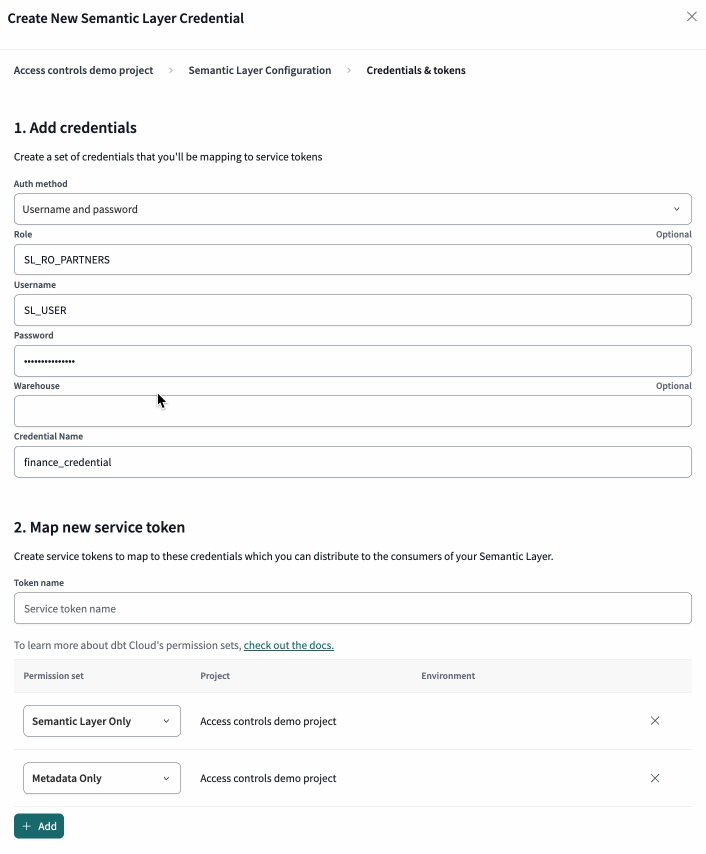
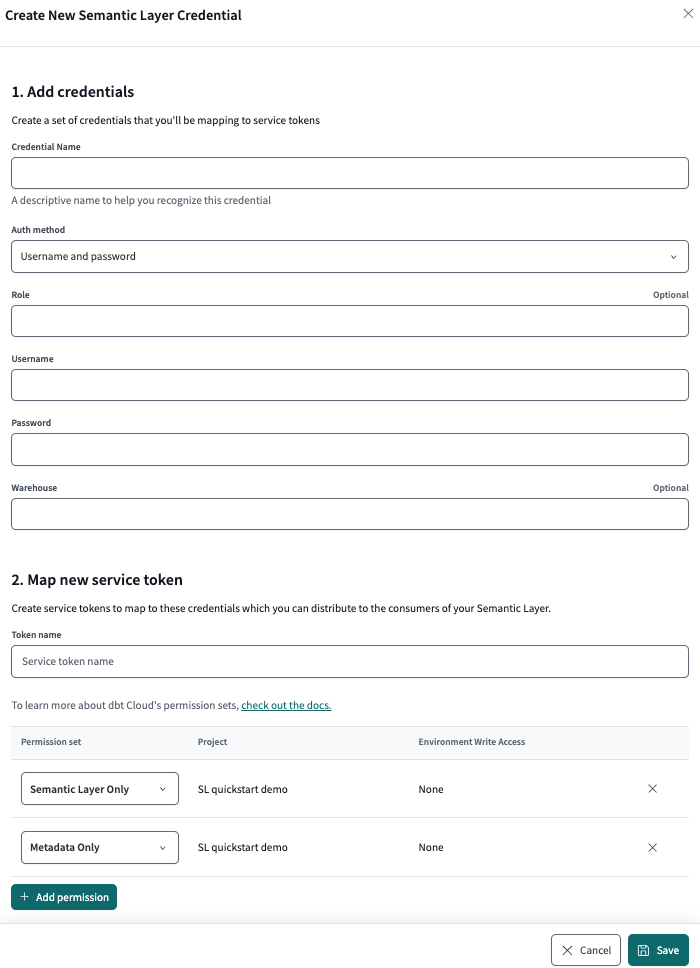
update sl credentials flow

diff --git a/website/snippets/_new-sl-setup.md b/website/snippets/_new-sl-setup.md
@@ -13,32 +13,41 @@ Select the environment where you want to enable the Semantic Layer:
 2. On the **Settings** left sidebar, select the specific project you want to enable the Semantic Layer for.
 3. In the **Project details** page, navigate to the **Semantic Layer** section. Select **Configure Semantic Layer**.
 
-<Lightbox src="/img/docs/dbt-cloud/semantic-layer/new-sl-configure.jpg" width="60%" title="Semantic Layer section in the 'Project Details' page"/>
+<Lightbox src="/img/docs/dbt-cloud/semantic-layer/new-sl-configure.jpg" width="70%" title="Semantic Layer section in the 'Project Details' page"/>
 
 4. In the **Set Up Semantic Layer Configuration** page, select the deployment environment you want for the Semantic Layer and click **Save**. This provides administrators with the flexibility to choose the environment where the Semantic Layer will be enabled.
 
-:::tip dbt Cloud Enterprise can skip to [Add more credentials](#4-add-more-credentials)
-dbt Cloud Enterprise plans can add multiple credentials and have a different set up. Skip to [Add more credentials](#4-add-more-credentials) for more configuration details.
-:::
+<Lightbox src="/img/docs/dbt-cloud/semantic-layer/sl-select-env.jpg" width="75%" title="Select the deployment environment to run your Semantic Layer against."/>
 
 ### 2. Add a credential and create service tokens
 
-The dbt Semantic Layer uses [service tokens](/docs/dbt-cloud-apis/service-tokens) for authentication which are tied to an underlying data platform credential that you configure. The credential configured is used to execute queries that the Semantic Layer issues against your data platform. This credential controls the physical access to underlying data accessed by the Semantic Layer, and all access policies set in the data platform for this credential will be respected.
+The dbt Semantic Layer uses [service tokens](/docs/dbt-cloud-apis/service-tokens) for authentication which are tied to an underlying data platform credential that you configure. The credential configured is used to execute queries that the Semantic Layer issues against your data platform. 
 
-dbt Cloud Enterprise plans can add multiple credentials and map those to service tokens. Refer to [Add more credentials](#4-add-more-credentials) for more information.
+This credential controls the physical access to underlying data accessed by the Semantic Layer, and all access policies set in the data platform for this credential will be respected.
 
-1. In the **Set Up Semantic Layer Configuration** page, enter the credentials specific to your data platform that you want the Semantic Layer to use.
+| Feature | Team plan | Enterprise plan |
+| --- | :---: | :---: |
+| Service tokens | Can create multiple service tokens linked to one credential. | Can create multiple service tokens linked to multiple credentials. |
+| Credentials per project | One credential per project. | Can [add multiple](#4-add-more-credentials) credentials per project. |
+| Link multiple service tokens to a single credential | ✅ | ✅ |
+
+*If you're on a Team plan and need to add more credentials, consider upgrading to our [Enterprise plan](https://www.getdbt.com/contact). Enterprise users can refer to [Add more credentials](#4-add-more-credentials) for detailed steps on adding multiple credentials.*
+
+1. After selecting the deployment environment, you should see the **Credentials & service tokens** page. 
+2. Click the **Add Semantic Layer credential** button. 
+3. In the **1. Add credentials** section, enter the credentials specific to your data platform that you want the Semantic Layer to use.
    - Use credentials with minimal privileges. The Semantic Layer requires read access to the schema(s) containing the dbt models used in your semantic models for downstream applications
    - Note, environment variables such as  `{{env_var('DBT_WAREHOUSE') }}`, aren't supported in the dbt Semantic Layer yet. You must use the actual credentials.
-<Lightbox src="/img/docs/dbt-cloud/semantic-layer/sl-configure-sl.jpg" width="45%" title="Enter the credentials specific to your data platform that you want the Semantic Layer to use and select the deployment environment."/>
 
-1. Create a **Service Token** after you add the credential.
-   * Enterprise plans: Name and generate a service token on the credential page directly.
-   * Team plans: You can return to the **Project Details** page and click the **Generate a Service Token** button. 
-2. Name the token and save it. Once the token is generated, you won't be able to view this token again so make sure to record it somewhere safe.
+<Lightbox src="/img/docs/dbt-cloud/semantic-layer/sl-add-credential.jpg" width="55%" title="Add credentials and map them to a service token. " />
+
+4. After adding credentials, scroll to **2. Map new service token**.
+5. Name the token and ensure the permission set is 'Semantic Layer Only' and 'Metadata Only'. 
+6. Click **Save**. Once the token is generated, you won't be able to view this token again so make sure to record it somewhere safe.
 
 :::info
-Teams plans can create multiple service tokens that map to one underlying credential. Adding [multiple credentials](#4-add-more-credentials) for tailored access is available for Enterprise plans.  
+- Team plans can create multiple service tokens that link to a single underlying credential, but each project can only have one credential.
+- Enterprise plans can [add multiple credentials](#4-add-more-credentials) and map those to service tokens for tailored access.
 
 <a href="https://www.getdbt.com/contact" style={{ color: 'white', backgroundColor: '#66c2c2', padding: '4px 8px', borderRadius: '4px', textDecoration: 'none', display: 'inline-block' }}>Book a free live demo</a> to discover the full potential of dbt Cloud Enterprise.
 :::
@@ -63,19 +72,35 @@ Note that:
 
 To add multiple credentials and map them to service tokens:
 
-1. After configuring your environment, on the **Credentials & service tokens** page click the **Add Semantic Layer credential** button to configure the credential for your data platform. 
-2. On the **Create New Semantic Layer Credential** page, you can create multiple credentials and map them to a service token.
-3. In the **Add credentials** section, fill in the data platform's credential fields. We recommend using “read-only” credentials.
+1. After configuring your environment, on the **Credentials & service tokens** page, click the **Add Semantic Layer credential** button to create multiple credentials and map them to a service token.
+2. In the **1. Add credentials** section, fill in the data platform's credential fields. We recommend using “read-only” credentials.
 <Lightbox src="/img/docs/dbt-cloud/semantic-layer/sl-add-credential.jpg" width="55%" title="Add credentials and map them to a service token. " />
-4. In the **Map new service token** section, map a service token to the credential you configured in the previous step. dbt Cloud automatically selects the service token permission set you need (Semantic Layer Only and Metadata Only).
-   - To add another service token, click **Add service token** under the **Linked service tokens** section.
+
+3. In the **2. Map new service token** section, map a service token to the credential you configured in the previous step. dbt Cloud automatically selects the service token permission set you need (Semantic Layer Only and Metadata Only).
+
+4. To add another service token during configuration, click **Add permission**. 
+   - (To add another service token to an existing Semantic Layer configuration, click **Add service token** under the **Linked service tokens** section in the **Semantic Layer Configuration Details** page.)
 
 5. Click **Save** to link the service token to the credential. Remember to copy and save the service token securely, as it won't be viewable again after generation.
 <Lightbox src="/img/docs/dbt-cloud/semantic-layer/sl-credential-created.jpg" width="100%" title="Manage multiple credentials and link them to service tokens for more granular control."/>
 
-6. To delete a credential, go back to the **Semantic Layer & Credential**s page. Select **Delete credential** to remove a credential and click **Save**. 
-   
+6. To delete a credential, go back to the **Credentials & service tokens** page.
+7. Under **Linked Service Tokens**, click **Edit**. Select **Delete Credential** to remove a credential.
+
    When you delete a credential, any service tokens mapped to that credential in the project will no longer work and will break for any end users.
+
+## Delete configuration
+You can delete the entire Semantic Layer configuration for a project. Note that deleting the Semantic Layer configuration will remove all credentials and unlink all service tokens to the project. It will also cause all queries to the Semantic Layer to fail.
+
+Follow these steps to delete the Semantic Layer configuration for a project:
+
+1. Navigate to the **Project details** page.
+2. In the **Semantic Layer** section, select **Delete Semantic Layer**. 
+3. Confirm the deletion by clicking **Yes, delete semantic layer** in the confirmation pop up.
+
+To re-enable the dbt Semantic Layer in the future, you will need to recreate your configurations by following the [previous steps](#set-up-dbt-semantic-layer).
+
+<Lightbox src="/img/docs/dbt-cloud/semantic-layer/sl-delete-config.jpg" width="90%" title="Delete the Semantic Layer configuration for a project."/>
 
 ## Additional configuration
 
